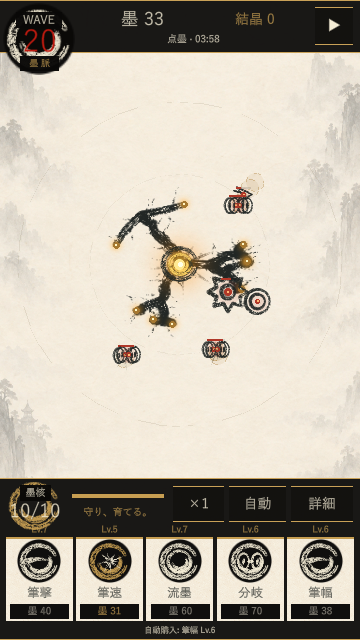
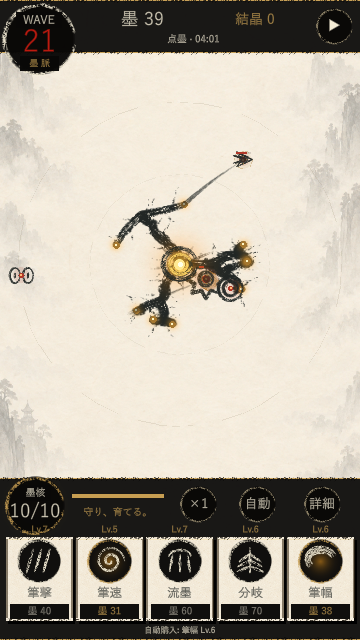
ui: refine brush rings and distinct upgrade card glyphs

diff --git a/UnitySandbox/Assets/BokumyakuPrototype/Presentation/BokumyakuGame.InkHud.cs b/UnitySandbox/Assets/BokumyakuPrototype/Presentation/BokumyakuGame.InkHud.cs
@@ -20,15 +20,31 @@ namespace Bokumyaku.Presentation
    Fill(r,hudBlack);Fill(new Rect(r.x,r.y,r.width,1),hudGold);
    Fill(new Rect(r.x,r.yMax-1,r.width,1),hudGold);DrawArt(r,paperArt,.04f,ScaleMode.ScaleAndCrop);
   }
+  // Deterministic dry edges: no random state or per-frame texture allocations.
+  void DryEdge(Rect r,Color color,int seed)
+  {
+   int count=Mathf.CeilToInt(r.width/5);
+   for(int i=0;i<count;i++)
+   {
+    float x=r.x+r.width*i/count;
+    float size=5+(i*13+seed)%8;
+    InkStamp(burstInk,new Vector2(x,r.y+1),size,color);
+    InkStamp(burstInk,new Vector2(x,r.yMax-1),size,color);
+   }
+  }
   bool InkControl(Rect r,string value,bool selected=false)
   {
-   InkPanel(r);HudText(r,value,17,selected?hudGold:hudWhite);
+   Dot(r.center,22,hudBlack);
+   if(selected)InkStamp(lightHalo,r.center,65,new Color(1,.65f,.15f,.45f));
+   InkStamp(hudRing,r.center,53,selected?hudGold:new Color(.63f,.58f,.46f));
+   HudText(r,value,16,selected?hudGold:hudWhite);
    bool hit=GUI.Button(r,GUIContent.none,GUIStyle.none);if(hit)AudioClick();return hit;
   }
   void DrawBattleHud(float height)
   {
    InkPanel(new Rect(0,0,440,65));
-   Dot(new Vector2(48,48),44,hudBlack);InkStamp(coreInk,new Vector2(48,48),106,hudWhite);
+   DryEdge(new Rect(0,0,440,65),hudBlack,3);
+   Dot(new Vector2(48,48),44,hudBlack);InkStamp(hudRing,new Vector2(48,48),106,hudWhite);
    Fill(new Rect(20,15,56,20),hudBlack);
    HudText(new Rect(20,15,56,20),"WAVE",14,hudWhite);
    HudText(new Rect(8,30,80,42),Run.Wave.ToString(),38,new Color(.75f,.10f,.06f));
@@ -40,7 +56,10 @@ namespace Bokumyaku.Presentation
    if(InkControl(new Rect(385,9,47,46),IsPaused?"▶":"Ⅱ"))SetPaused(!IsPaused);
    float y=height-198;
    InkPanel(new Rect(0,y,440,198));
-   InkStamp(coreInk,new Vector2(43,y+34),85,hudGold);
+   DryEdge(new Rect(0,y,440,198),hudBlack,9);
+   InkStamp(lightHalo,new Vector2(43,y+34),100,new Color(1,.6f,.12f,.35f));
+   Dot(new Vector2(43,y+34),36,hudBlack);
+   InkStamp(hudRing,new Vector2(43,y+34),85,hudGold);
    Fill(new Rect(24,y+8,38,19),hudBlack);
    HudText(new Rect(24,y+8,38,19),"墨核",12,hudWhite);
    HudText(new Rect(10,y+27,66,28),Run.CoreHp+"/10",23,hudWhite);
@@ -56,12 +75,16 @@ namespace Bokumyaku.Presentation
     int level=Run.UpgradeLevels[i],cap=Run.UpgradeMaxLevel(kind),cost=Run.UpgradeCost(kind);
     bool available=!loadBlocked&&!storageFailed&&!AwaitingStart&&Run.State==Bokumyaku.Simulation.RunStatus.Running&&level<cap&&Run.RunInk>=cost;
     Rect card=new Rect(7+i*86,y+72,82,103);
-    Fill(card,new Color(.9f,.86f,.76f));DrawArt(card,paperArt,.9f,ScaleMode.ScaleAndCrop);
-    Fill(new Rect(card.x,card.y,82,2),hudGold);
+    Fill(new Rect(card.x+3,card.y+4,card.width,card.height),Color.black);
+    Fill(card,new Color(.83f,.78f,.65f));DrawArt(card,paperArt,.9f,ScaleMode.ScaleAndCrop);
+    Fill(new Rect(card.x+3,card.y+3,76,1),new Color(.98f,.91f,.73f,.7f));
+    DryEdge(card,new Color(.09f,.07f,.04f,.9f),i*7);
+    Fill(new Rect(card.x,card.y+3,2,97),new Color(.24f,.19f,.11f,.6f));
+    Fill(new Rect(card.xMax-2,card.y+3,2,97),new Color(.24f,.19f,.11f,.6f));
     Vector2 center=new Vector2(card.center.x,card.y+30);
-    Dot(center,27,hudBlack);InkStamp(coreInk,center,65,available?hudGold:hudWhite);
-    var symbol=i==0?slashInk:i==1?burstInk:i==2?coreInk:i==3?enemyInk[3]:slashInk;
-    InkStamp(symbol,center,43,hudWhite);
+    Dot(center,27,hudBlack);InkStamp(hudRing,center,65,available?hudGold:hudWhite);
+    if(available)InkStamp(lightHalo,center,62,new Color(1,.65f,.12f,.5f));
+    InkStamp(upgradeGlyphs[i],center,49,hudWhite);
     HudText(new Rect(card.x,card.y-17,82,16),"Lv."+level,11,hudGold);
     HudText(new Rect(card.x,card.y+58,82,22),UpgradeNames[i],15,ink);
     Fill(new Rect(card.x+5,card.y+82,72,18),hudBlack);

diff --git a/UnitySandbox/Assets/BokumyakuPrototype/Presentation/ProceduralInkMotifs.cs b/UnitySandbox/Assets/BokumyakuPrototype/Presentation/ProceduralInkMotifs.cs
@@ -78,6 +78,40 @@ namespace Bokumyaku.Presentation
             return InkTextureBaker.Bake(Size, strokes, style, 4799);
         }
 
+        public static Texture2D CreateHudRing()
+        {
+            var style = Style(2.8f);
+            style.roughness = .55f;
+            return InkTextureBaker.Bake(Size, new List<InkPoint[]> {
+                Arc(48,48,39,38,12,350,56)
+            }, style, 5800);
+        }
+
+        public static Texture2D CreateUpgradeGlyph(int kind)
+        {
+            var strokes = new List<InkPoint[]>();
+            switch(kind)
+            {
+                case 0: // Three forceful strikes.
+                    for(int i=0;i<3;i++)strokes.Add(Line(18+i*20,20,34+i*20,76,18));
+                    break;
+                case 1: // Flowing acceleration spiral.
+                    var spiral=new InkPoint[64];
+                    for(int i=0;i<64;i++) { float t=i/63f,a=t*Mathf.PI*4,r=32*(1-t)+3; spiral[i]=Point(48+Mathf.Cos(a)*r,48+Mathf.Sin(a)*r,i,64); }
+                    strokes.Add(spiral);break;
+                case 2: // Supply flows down toward a reservoir.
+                    for(int i=0;i<3;i++)strokes.Add(Line(24+i*24,22,30+i*18,62,18));
+                    strokes.Add(Arc(48,58,27,16,0,180,24));break;
+                case 3: // A branching tree.
+                    strokes.Add(Line(48,80,48,20,24));
+                    for(int i=0;i<3;i++) { strokes.Add(Line(48,65-i*15,22-i*3,46-i*12,14)); strokes.Add(Line(48,65-i*15,74+i*3,46-i*12,14)); }break;
+                default: // Breadth, a broad sweeping brush.
+                    for(int i=0;i<3;i++)strokes.Add(Arc(48,52,27+i*5,16+i*7,20,220,24));break;
+            }
+            var style=Style(4);style.roughness=.45f;
+            return InkTextureBaker.Bake(Size,strokes,style,5810+kind);
+        }
+
         static InkBrushSettings Style(float radius)
         {
             var style = InkBrushSettings.Dense;

diff --git a/UnitySandbox/Assets/BokumyakuPrototype/Presentation/BokumyakuGame.InkMotifs.cs b/UnitySandbox/Assets/BokumyakuPrototype/Presentation/BokumyakuGame.InkMotifs.cs
@@ -6,12 +6,17 @@ namespace Bokumyaku.Presentation
     {
         Texture2D[] enemyInk;
         Texture2D coreInk, lightHalo;
+        Texture2D hudRing;
+        Texture2D[] upgradeGlyphs;
         void EnsureInkMotifs()
         {
             if(enemyInk!=null)return;
             enemyInk=new Texture2D[5];
             for(int i=0;i<enemyInk.Length;i++)enemyInk[i]=ProceduralInkMotifs.CreateEnemy((EnemyKind)i);
             coreInk=ProceduralInkMotifs.CreateCore();
+            hudRing=ProceduralInkMotifs.CreateHudRing();
+            upgradeGlyphs=new Texture2D[5];
+            for(int i=0;i<5;i++)upgradeGlyphs[i]=ProceduralInkMotifs.CreateUpgradeGlyph(i);
             EnsureCombatInk();
             lightHalo=new Texture2D(64,64,TextureFormat.RGBA32,false);
             lightHalo.name="Bokumyaku soft light";
@@ -51,6 +56,9 @@ namespace Bokumyaku.Presentation
         {
             if(enemyInk!=null)foreach(var texture in enemyInk)if(texture!=null)Destroy(texture);
             if(coreInk!=null)Destroy(coreInk);
+            if(hudRing!=null)Destroy(hudRing);
+            if(upgradeGlyphs!=null)foreach(var texture in upgradeGlyphs)if(texture!=null)Destroy(texture);
+            hudRing=null;upgradeGlyphs=null;
             if(lightHalo!=null)Destroy(lightHalo);
             if(slashInk!=null)Destroy(slashInk);
             if(burstInk!=null)Destroy(burstInk);

diff --git a/docs/STATE.md b/docs/STATE.md
@@ -1,20 +1,18 @@
 # 現状 — 墨脈
-更新: 2026-10-23。AGENTS先頭の新方針を優先。旧記録はarchive/。
+更新: 2026-10-23。AGENTS先頭の方針を優先。旧記録はarchive/。
 
 ## 現状
-- ユーザーの参考画像を基準に戦闘UI再制作。墨黒/金縁/朱Wave/円形核/5枚の筆絵札へ変更。詳細はBATTLE_UI_ART_DIRECTION.md。核/枝先の金色光と、主枝の掠れ/装飾細枝を追加。見た目はまだ完成品質未達。
-- 商品完成まで継続中。完成条件/分担はPRODUCT_COMPLETION.md。素材室を再開、効果音・BGM制作室を新設（01a16778-dfc6-7a90-80a4-798744e136da）。背景v2を縦戦場に採用。7SE/80秒BGM納品済み、音と音量/消音UIを統合、8clip/BGM進行/消音/設定保持を限定確認。
-- 縦UIと敵5種/核/攻撃/撃破のSUMI手続き描画は試作段階。画像を初期生成し再利用、汎用描画ヘルパーとゲーム形状を分離。
-- 攻撃の筆幅と減衰を調整。敵シルエット/朱の中心、墨核の金輪/明点を強調。戦場クリップと研究/記録からの復帰修正を維持。
-- 戦闘rules6、研究価格版2、保存v8を維持。Runtime/Scene変更なし。10万Wave長期曲線は凍結。
-- 初週目標案は実戦60分/日で初日40〜55、7日目80〜110Wave（未検証）。分割は計画のみ。
+- 参考WAVE37画像へ縦戦闘UIを改修中。墨黒/金縁/朱Wave/和紙5札、円形操作、SUMIの細い円相・5種類の強化筆記号・飛沫の縁を実装。美術完成には未達。
+- 背景v2、敵5種/核/攻撃/撃破/装飾枝の手続き描画、7SE/80秒BGMと音量/消音設定を統合。汎用描画とゲーム形状を分離。Runtime本体とSceneは変更なし。
+- 戦闘rules6/保存v8。研究価格500への変更が作業ツリーに残る（価格版3、関連テスト変更済みだが未検証・未コミット）。今回のUIコミットには含めない。長期10万Wave曲線は凍結。
+- 初週目標は実戦60分/日で初日40〜55、7日目80〜110Waveの案（未検証）。分割は計画のみ。商品完成条件はPRODUCT_COMPLETION.md。
 
-## 直近結果
-- 検証区分: ゲーム試作の限定確認（初期研究0/点墨/Farmingの短い3系列×3周。候補3案のみ比較）。全テスト/Windowsビルド/実機測定なし。
-- 隔離セーブに100結晶を与え、画面クリックで祖墨Lv.1/残92結晶を確認。再読込後も保持。研究ボタン高32→44、敵図鑑のボス説明を八棘へ修正。現在Console error0/warning0。
-- 画面と手順はBOKUMYAKU_PROCEDURAL_INK.md。Play停止・一時GameView設定復元済み。最新Windowsビルドはv0.11。
+## 直近の結果
+- 検証区分: ゲームUIの限定確認。Unity6000.3.26f1でコンパイル/隔離Play/360×640画面。フル検証・新Windowsビルド・実機測定は未実施。
+- 速度/自動/詳細開閉/停止5操作、強化5札購入と墨不足拒否6項目が合格。筆縁初稿の四角い欠けを不採用とし、SUMI飛沫へ修正。portrait-ink-hud.png更新。Play停止・一時表示設定を復元。
+- 初期研究0/点墨/Farmingの3系列×3周では初回366.6〜420.8秒。500結晶なら全系列3周目に初購入可能。候補3案の比較終了、OPENING_ECONOMY.md参照。
 
 ## 次の一手
-1. 参考画像へ近づける美術仕上げを優先。Wave小文字は墨黒の下地で可読性修正済み、UIの筆縁と戦場の枝密度、強化札5種の購入/墨不足6確認は合格済み。その後SE検証。記録1周の保存再読込/縦表示を確認。攻撃筆跡の位置ずれは座標統一で修正し6武器表示確認済み。密集時のHP重なりは残件（核と敵の色/形は識別可能）。
-2. BGM境界のseek再生継続・音声データ/攻撃音最大4は確認済み。全SE実戦発火と全曲聴感は未確認。実機タップ/ノッチ/性能、完成美術は未確認。
-3. 初回研究500結晶案を3系列×3周で採用（全系列3周目）。OPENING_ECONOMY.md。現コードは旧価格のまま。価格逆転を避ける接続/保存互換を実装し初週バランスを調整（初回5〜8分/研究2〜3周、最大3案）。長期曲線は再探索しない。
+1. 美術を優先。参考の大きく広がる樹形、敵群の密度、紙札と文字の品位には差が残る。密集HP表示、他画面比率、実機タップ/ノッチ/性能も未確認。
+2. 研究価格の未コミット変更を関連EditMode/購入/保存互換で検証して閉じる。過去の100結晶→92結晶のQAは旧価格の記録。
+3. 全SE実戦発火と全曲聴感を確認。BGM境界seek再生、音声データ非ゼロ、攻撃音最大4は確認済み。最新Windowsビルドはv0.11。

diff --git a/docs/BATTLE_UI_ART_DIRECTION.md b/docs/BATTLE_UI_ART_DIRECTION.md
@@ -33,3 +33,7 @@ Wave/墨脈/墨核の小文字の背後に局所的な墨黒面を置く。360×
 
 ## 攻撃座標の統一（2026-10-23）
 縦戦場のGUI.BeginGroupによる局所原点と、GUI.matrixの回転座標が食い違い、筆跡が枝先から離れていた。戦場を絶対GUI座標へ統一。上下の不透明HUDで操作領域を覆い、左右は画面端で制限する。6武器の実Updateを再実行し、点墨/貫筆/払い/共鳴が枝先から敵へ描かれること、円相/滲墨と操作領域の表示を目視確認。contrast-*.png/jsonを更新。ゲーム判定変更なし。Play停止/表示復元済み。限定画面確認であり実機/全テストは未実施。
+
+## 筆縁と強化記号の再制作（2026-10-23）
+参考との差として直線の帯、均一な矩形札、同じ円模様の反復を確認。細い単円相をSUMIで生成し、Wave/核/操作の輪に使用。強化5種は打撃/渦/供給/枝/払いの専用筆記号へ描き分け、初回生成・再利用・終了時破棄する。札に影/側面の濃淡、帯と札の境界にSUMI飛沫を追加。四角い欠けになった初稿は破棄した。購入領域とゲーム判定は維持。
+限定確認: Unity6000.3.26f1、隔離360×640 Playで画面確認。5操作と購入/墨不足6項目合格。portrait-ink-hud.png更新、停止/表示復元済み。参考相当の完成品質ではない。大きな樹形、戦場の密度、文字と紙札の質感は引き続き残件。実機/フル検証なし。
